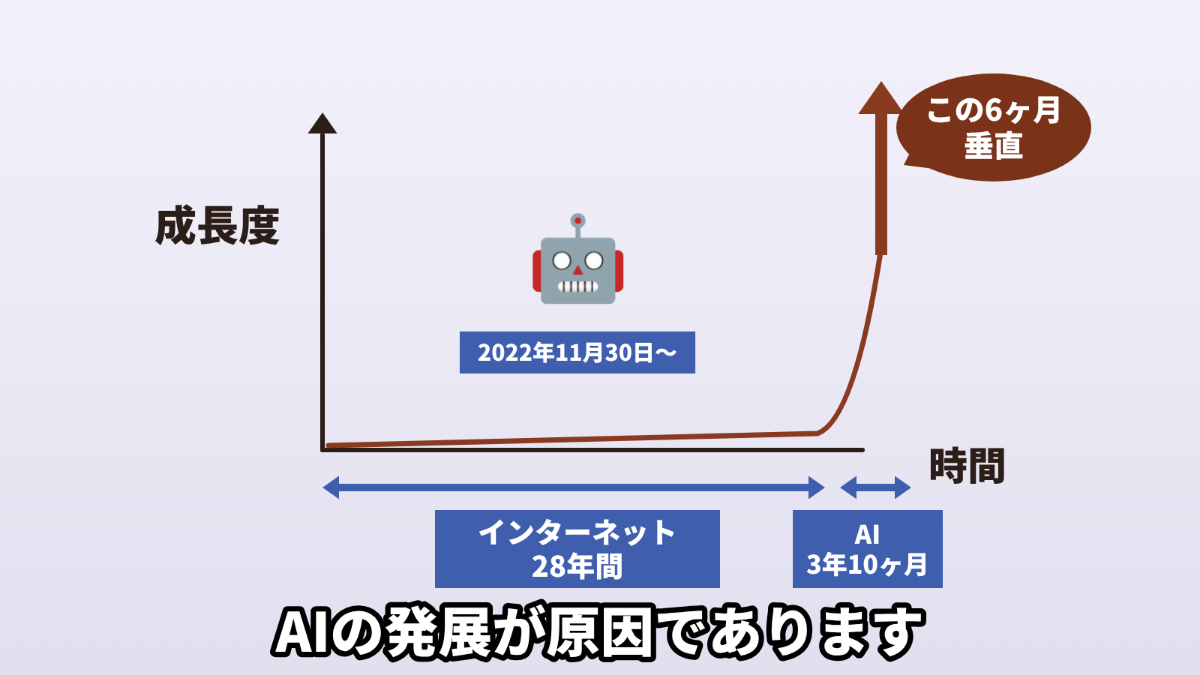
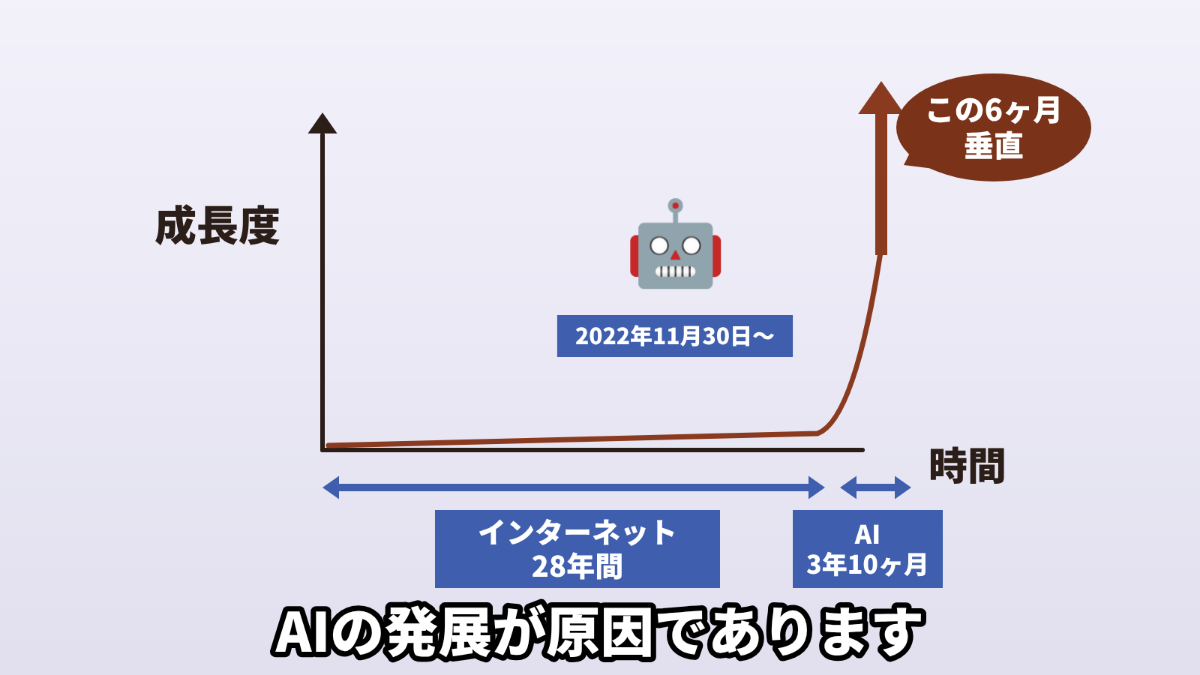
Move the center mark and date box to the right
Claude-Session: https://claude.ai/code/session_01RHGQ3b94qmHhxn32WRkP5Z

Changed region(s): [[0.37, 0.28, 0.6783, 0.56]]

diff --git a/index.html b/index.html
@@ -312,14 +312,14 @@ function drawWanted(c){
 const LAYOUTS={
   graph:{
     name:"graph",markId:"mark",shapes:drawGraph,
-    pic:{x:770,y:330,scale:100,boxW:340,boxH:230},
+    pic:{x:900,y:310,scale:100,boxW:340,boxH:230},
     hint:"スライドの文字をタップすると書き換えられます",
     items:[
       {id:"yLabel",x:290,y:300,size:56,bold:true,color:C.ink},
       {id:"xLabel",x:1290,y:620,size:52,bold:true,color:C.ink},
       {id:"bubble",x:1325,y:170,size:40,bold:true,color:"#ffffff"},
-      {id:"mark",x:770,y:350,size:110,bold:false,color:C.ink,emoji:true},
-      {id:"markLabel",x:770,y:470,size:30,bold:true,color:"#ffffff",pill:true},
+      {id:"mark",x:900,y:330,size:110,bold:false,color:C.ink,emoji:true},
+      {id:"markLabel",x:900,y:448,size:30,bold:true,color:"#ffffff",pill:true},
       {id:"longLabel",x:770,y:732,size:38,bold:true,color:"#ffffff"},
       {id:"shortLabel",x:1157,y:732,size:34,bold:true,color:"#ffffff"},
       {id:"caption",x:800,y:842,size:72,bold:true,color:"#ffffff",cap:true}
